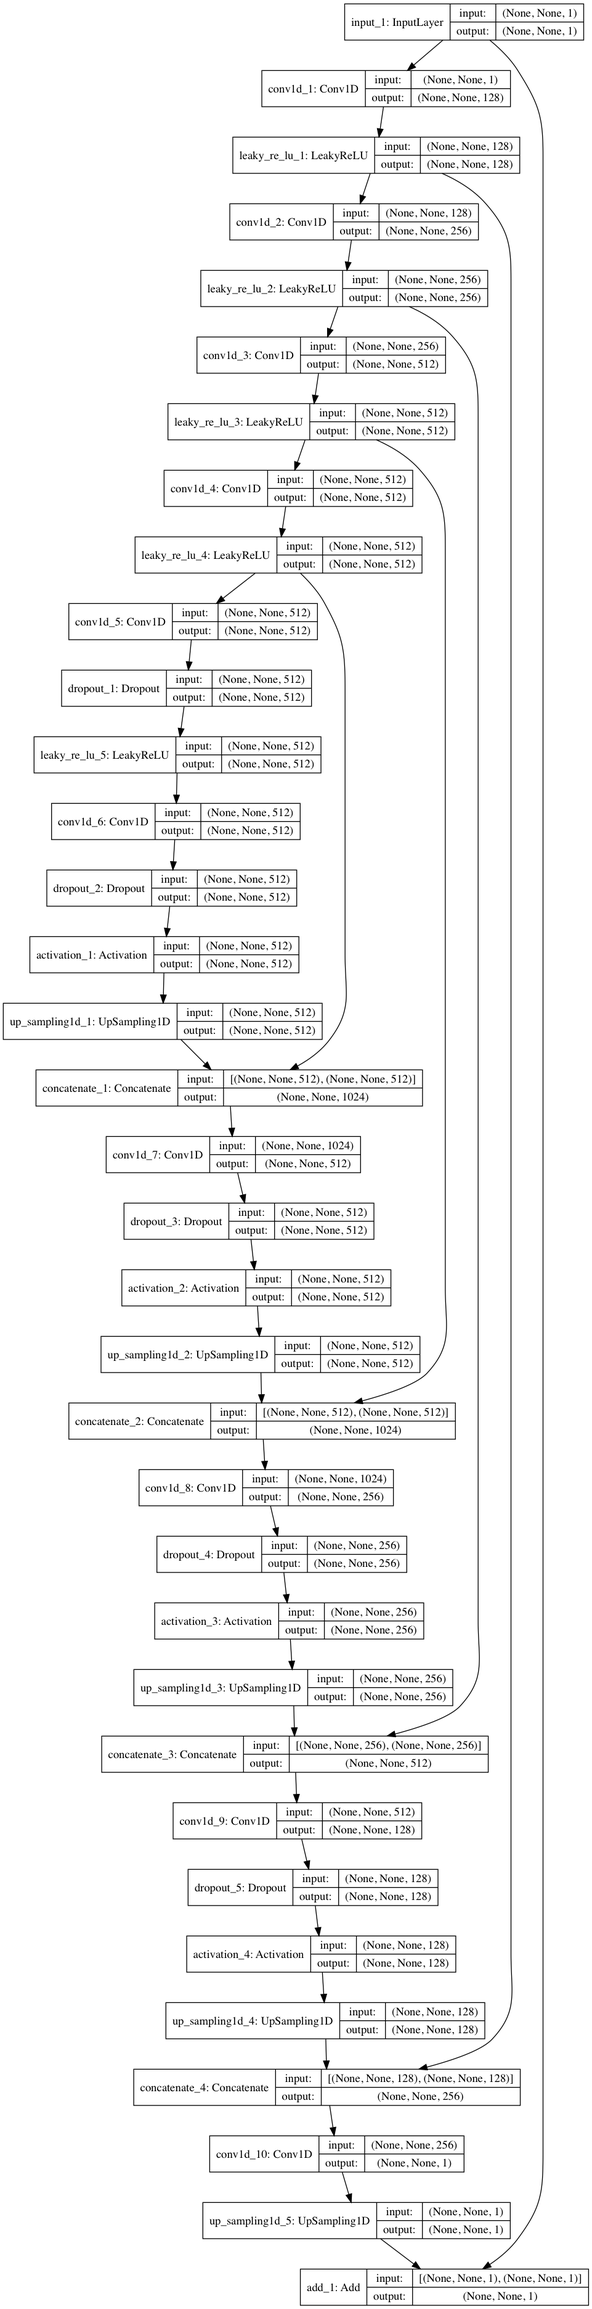
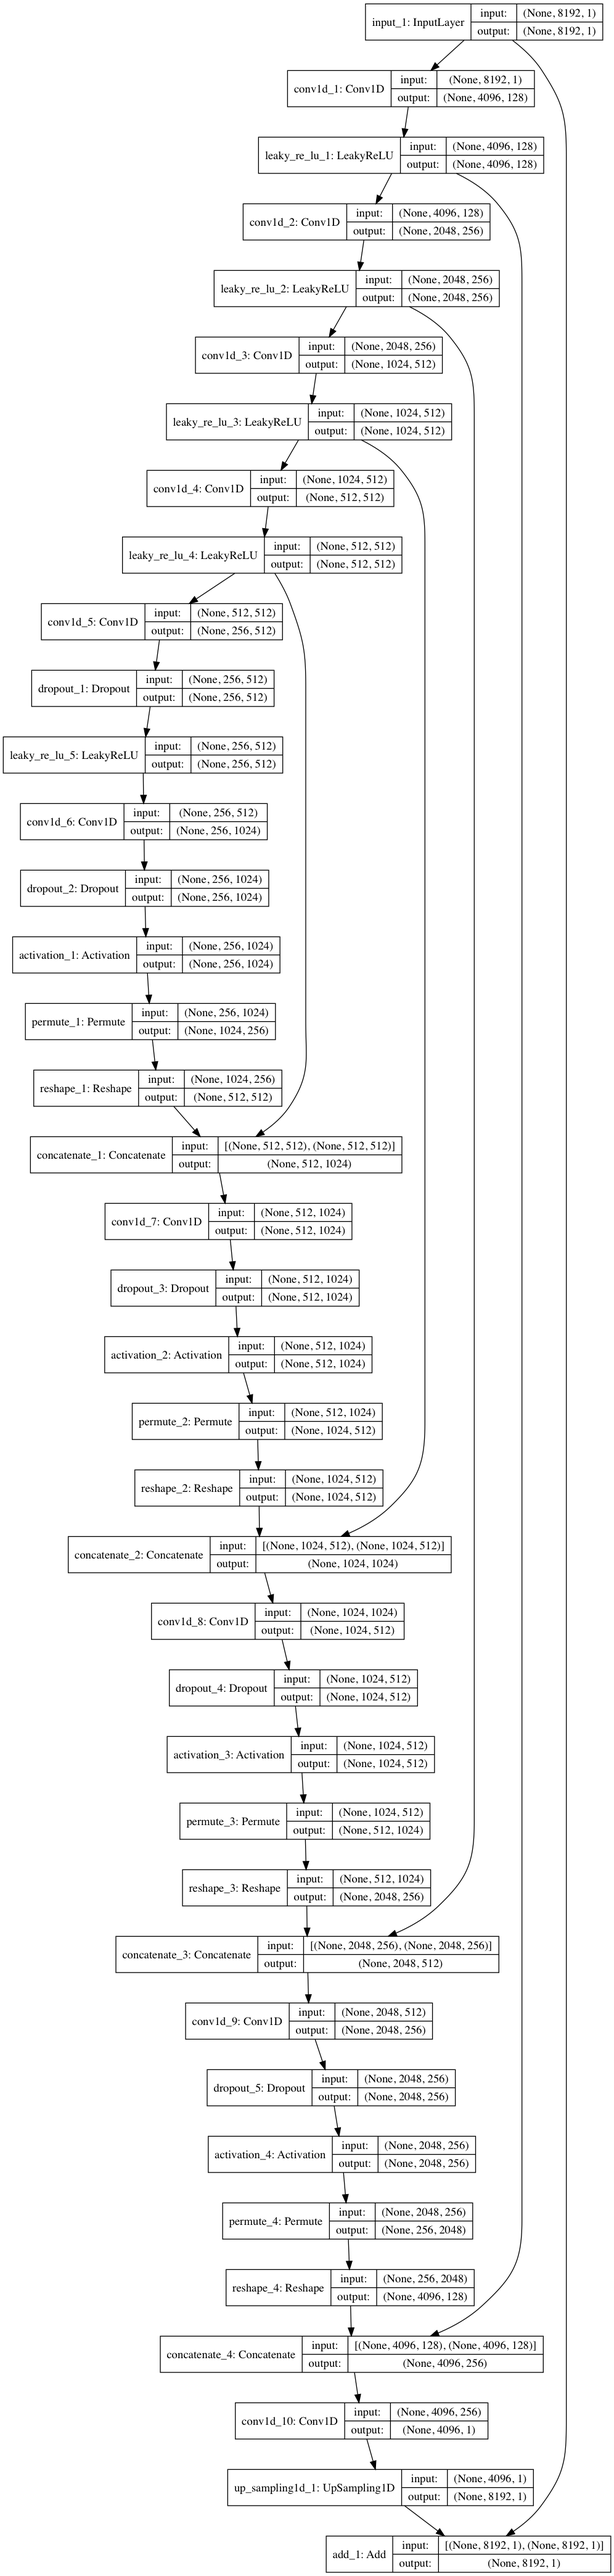
subpixel1d相当のものを実装してみたつもり

Changed region(s): [[0.0, 0.0, 0.999, 1.0], [0.6868, 0.4649, 0.718, 0.4959]]

diff --git a/src/train.py b/src/train.py
@@ -47,19 +47,12 @@ def create_model():
       # upsampling layers
       for l, nf, fs, l_in in reversed(zip(range(L), n_filters, n_filtersizes, downsampling_l)):
         with tf.name_scope('upsc_conv%d' % l):
-          x = Conv1D(filters=nf, kernel_size=fs, padding='same', kernel_initializer='orthogonal')(x)
+          x = Conv1D(filters=nf*2, kernel_size=fs, padding='same', kernel_initializer='orthogonal')(x)
           x = Dropout(rate=0.5)(x)
           x = Activation('relu')(x)
-
-          #x=(7,1024,256)
-          x = Reshape((x.shape[0], x.shape[1], x.shape[2]/2, x.shape[2]/2))(x)
-          #x=(7,1024,128,128)
-          x = Permute((1,3,2,4))(x)
-          #x=(7,128,1024,128)
-          x = Peshape((x.shape[0], x.shape[1]*x.shape[2], x.shape[3]))(x)
-          #x=(7,1024*128,128)
-
-          x = UpSampling1D(size=2)(x)
+          s = (int(x.shape[1])*2, int(x.shape[2])/2)
+          x = Permute((2,1))(x)
+          x = Reshape(s)(x)
           x = Concatenate(axis=-1)([x, l_in])
           print 'U-Block-%d: %s' % (l, x.get_shape())
 
